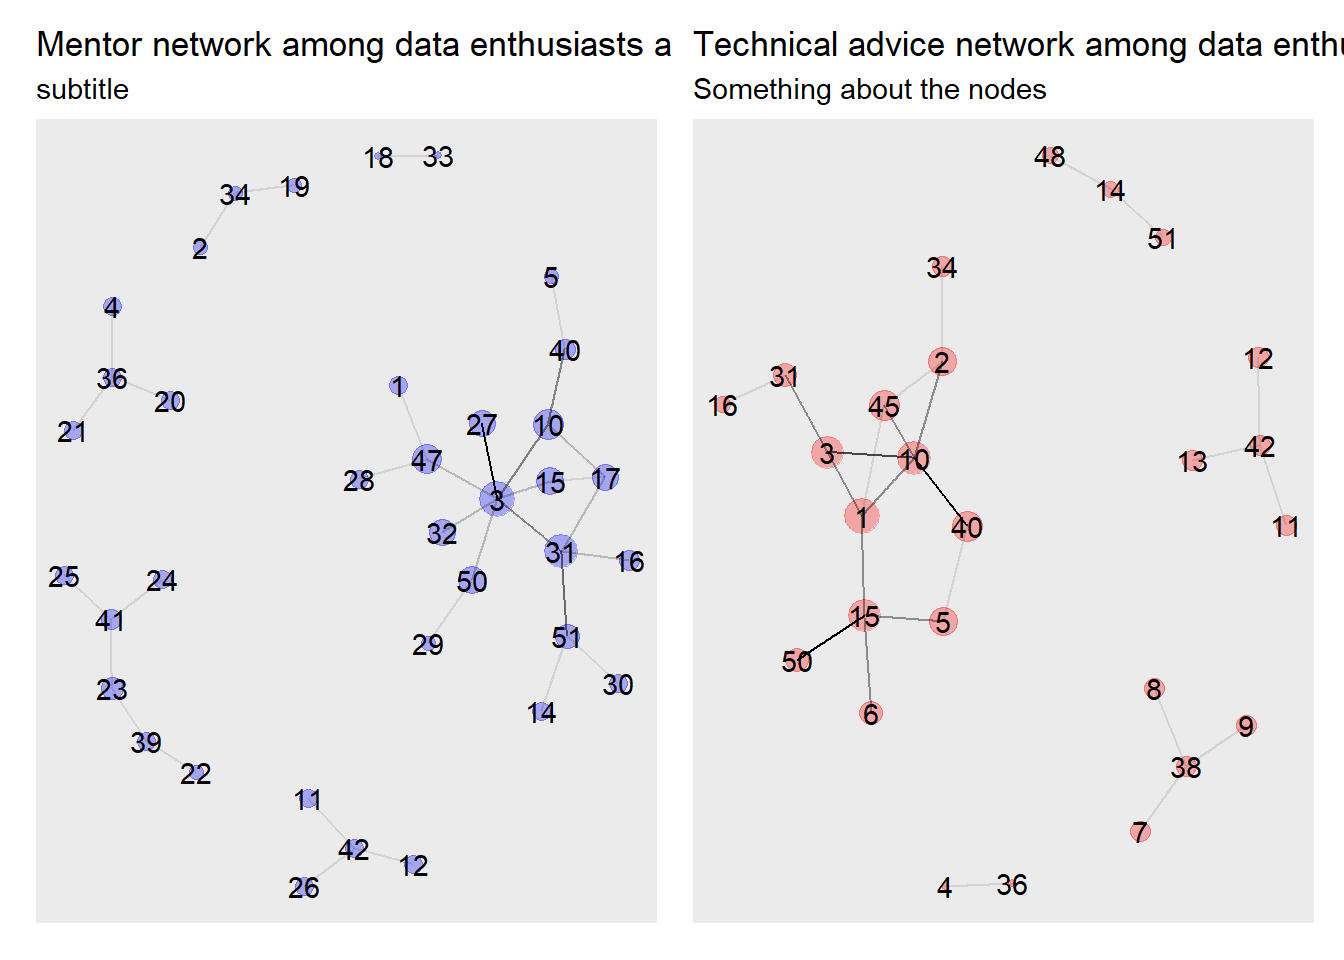
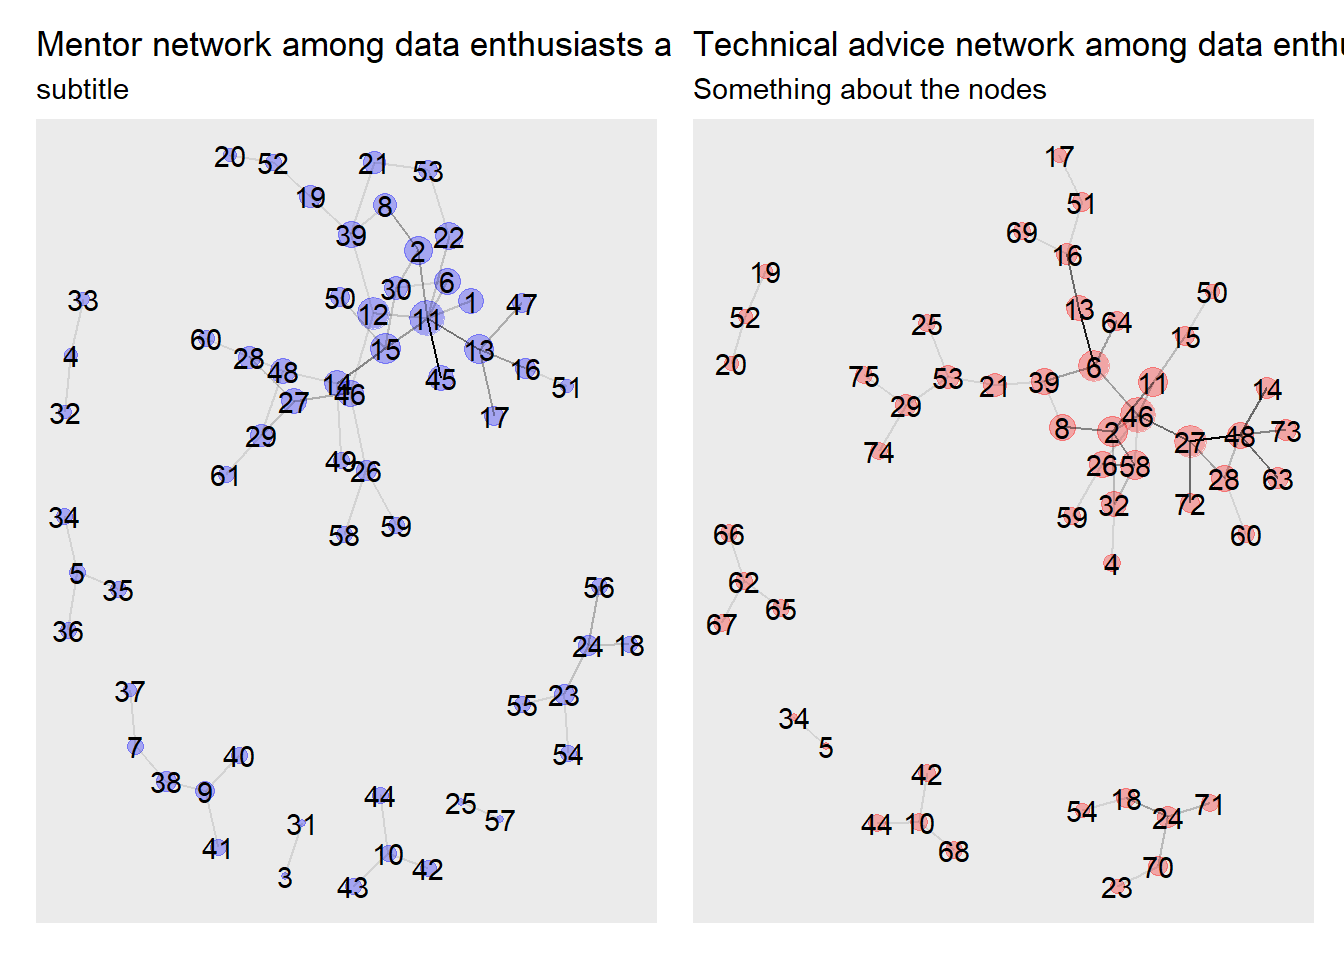
BC

diff --git a/network analysis sandbox/scripts/internal networks.html b/network analysis sandbox/scripts/internal networks.html
@@ -260,7 +260,7 @@ code span.wa { color: #60a0b0; font-weight: bold; font-style: italic; } /* Warni
 <p><img src="internal-networks_files/figure-html/unnamed-chunk-3-1.png" class="img-fluid" width="672"></p>
 </div>
 </div>
-<p>In the entire mentor dataset there are 37 nodes. These nodes have 33 connections. The resulting network looks like this.</p>
+<p>In the entire mentor dataset there are 61 nodes. These nodes have 59 connections. The resulting network looks like this.</p>
 </section>
 
 </main>
